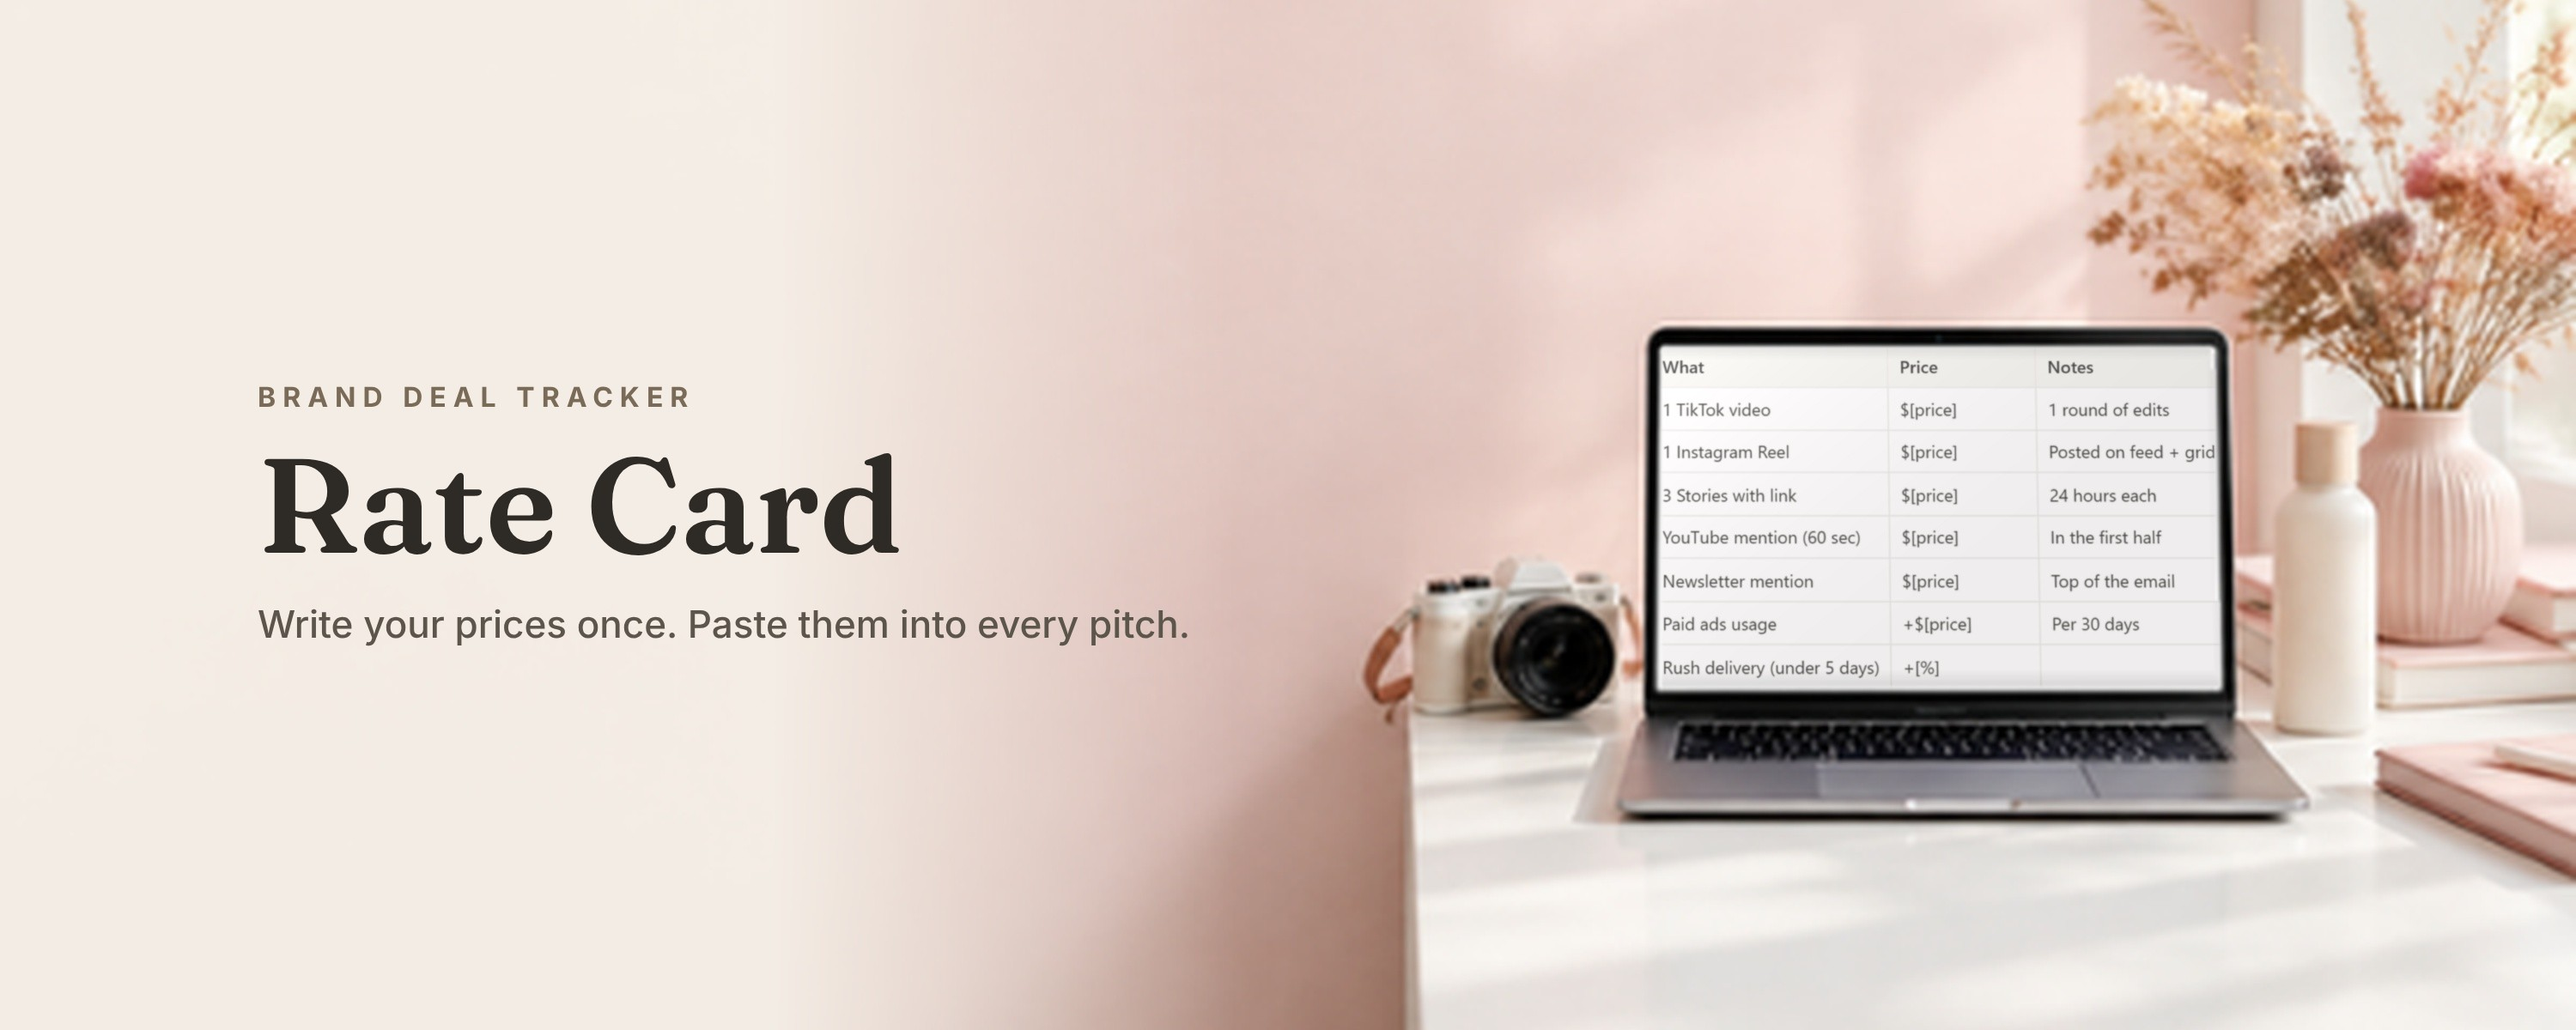
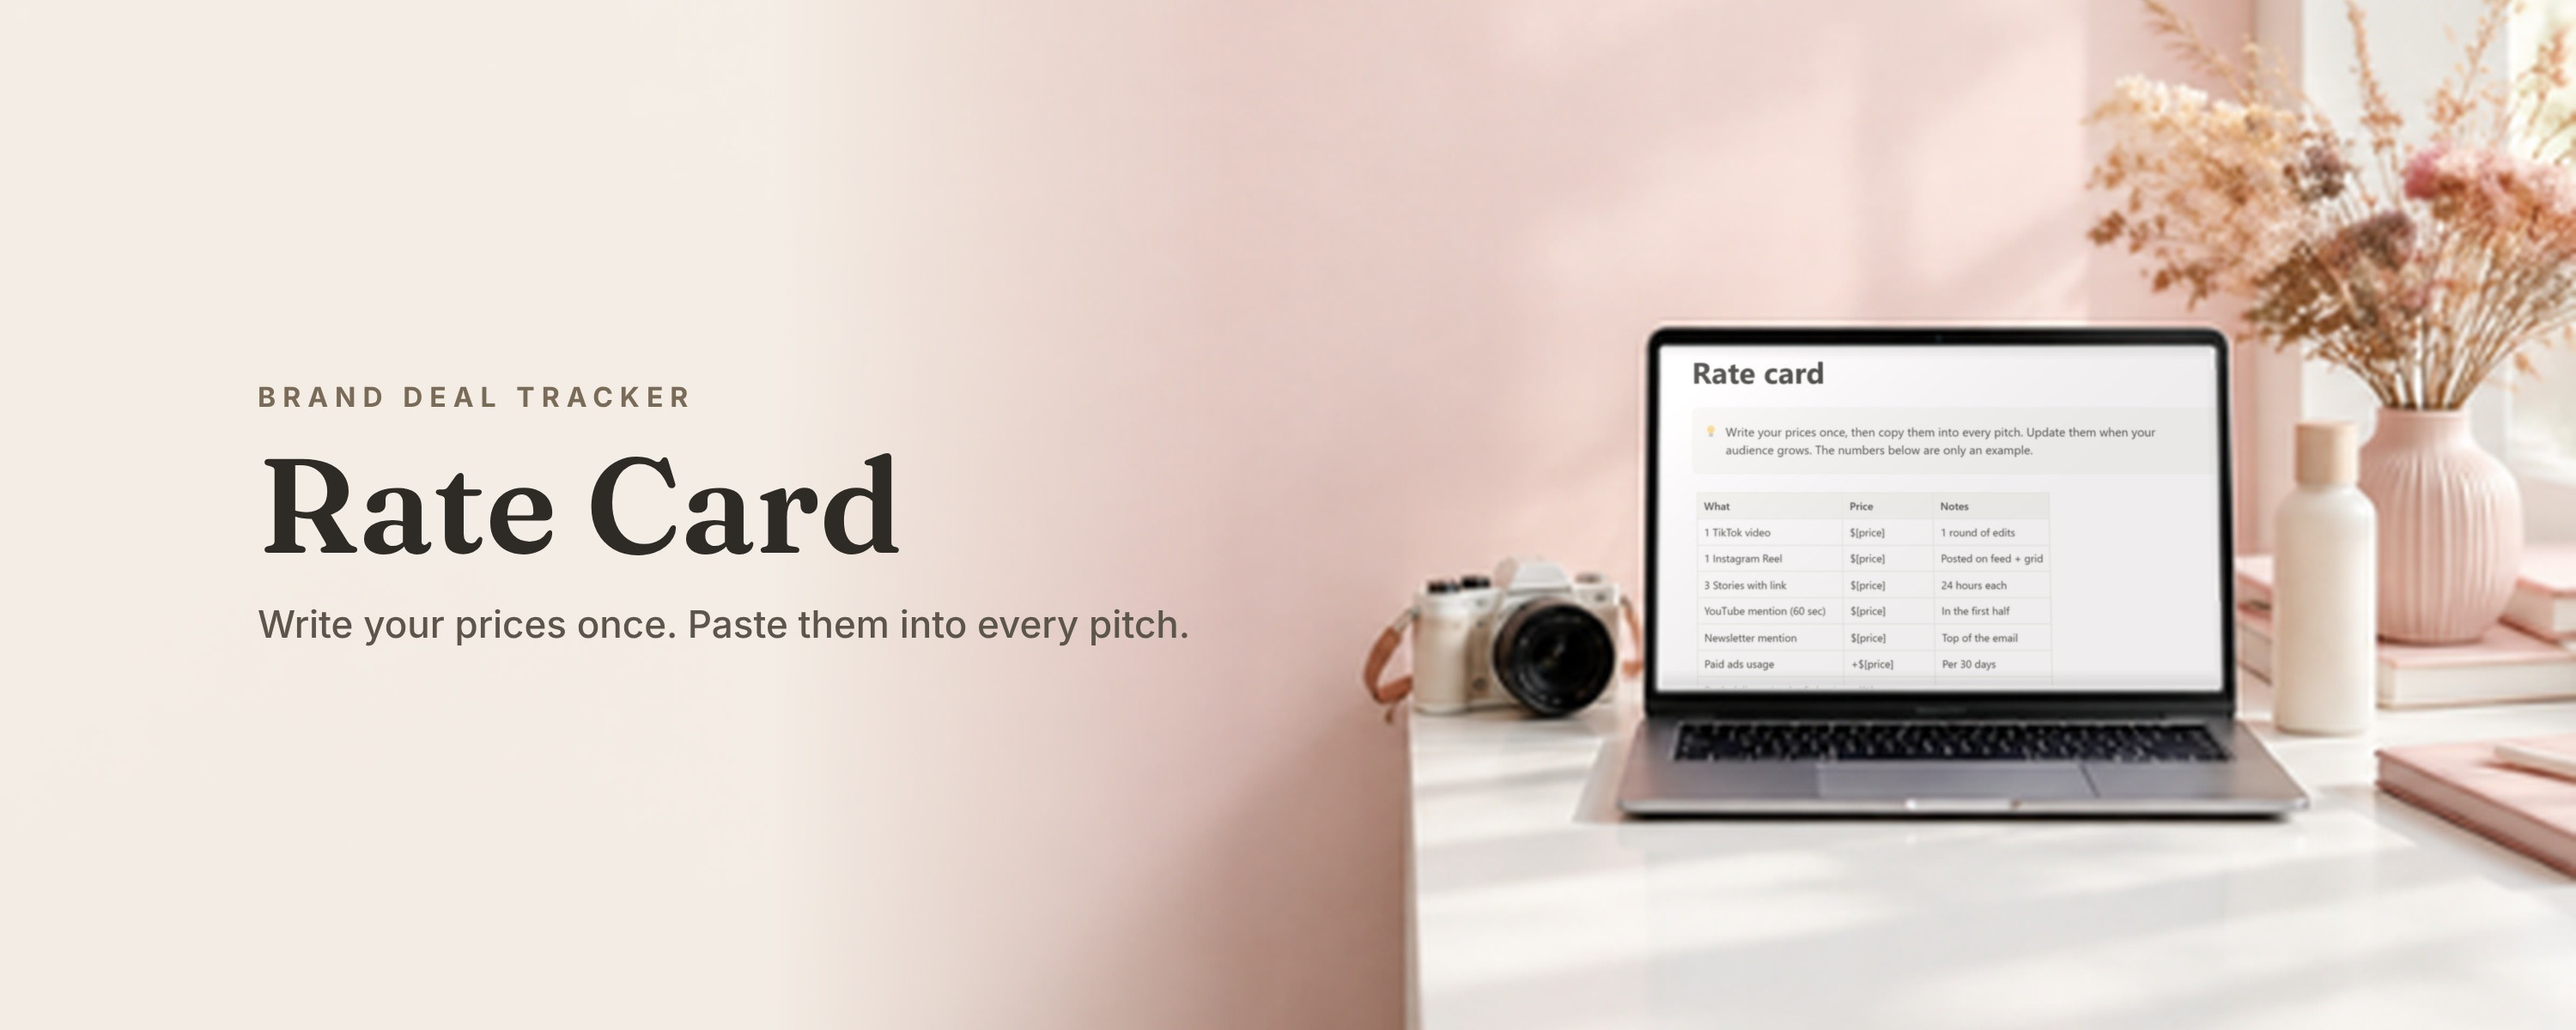
40 sub-page Notion covers (v3 style) for all 6 products
Claude-Session: https://claude.ai/code/session_01SESvdWYowsCKTnCuHXDcbL

Changed region(s): [[0.651, 0.3392, 0.868, 0.6783], [0.775, 0.3392, 0.806, 0.37]]

diff --git a/generator/v3/build_covers.py b/generator/v3/build_covers.py
@@ -29,14 +29,77 @@ PROD = {
 
 # cover id -> (product, title, subtitle, screens [one per blank screen in the scene, left to right])
 B.CROPS.update({
-    'cv-fco-paid': ('fco-money-flow', (548, 250, 935, 950)),
-    'cv-ccs-cal':  ('ccs-calendar', (145, 330, 1855, 1250)),
+    'cv-fco-paid':   ('fco-money-flow', (548, 250, 935, 950)),
+    'cv-fco-menu':   ('fco-home-menu', (147, 587, 533, 1067)),
+    'cv-fco-proj':   ('fco-projects-invoices', (145, 250, 800, 1250)),
+    'cv-fco-week':   ('fco-money-flow', (145, 250, 700, 1250)),
+    'cv-fco-review': ('fco-home-menu', (640, 540, 1300, 1250)),
+    'cv-ccs-cal':    ('ccs-calendar', (145, 330, 1855, 1250)),
+    'cv-ccs-home':   ('ccs-home-full', (78, 350, 930, 900)),
+    'cv-ccs-deals':  ('ccs-calendar-deals', (163, 780, 1300, 1250)),
+    'cv-ccs-top':    ('ccs-top-posts', (163, 380, 1500, 1200)),
+    'cv-fit-inv':    ('fit-chase-owes', (145, 190, 1010, 1250)),
+    'cv-fit-cli':    ('fit-chase-owes', (145, 560, 1010, 1250)),
+    'cv-fit-mail':   ('fit-reminder-emails', (380, 330, 1300, 1250)),
+    'cv-prop-top':   ('prop-followup-pipeline', (145, 150, 1700, 1150)),
+    'cv-prop-pipe':  ('prop-pipeline', (145, 150, 1900, 1100)),
+    'cv-prop-table': ('prop-proposals-table', (145, 150, 1700, 1100)),
+    'cv-deal-now':   ('deal-do-now-board', (145, 150, 1700, 1100)),
+    'cv-deal-board': ('deal-do-now-board', (145, 800, 1700, 1250)),
+    'cv-deal-owe':   ('deal-posts-owe', (145, 250, 1700, 1250)),
+    'cv-deal-rate':  ('deal-rate-card', (420, 150, 1500, 1100)),
 })
+PH_CCS = 'ph-ccs-pipeline-posted.jpg'
+PH_W1, PH_W2 = 'ph-wcp-pipeline.jpg', 'ph-wcp-goals-next7.jpg'
 
+# cover id -> (product, title, subtitle, screens [one per blank screen in the scene, left to right])
 COVERS = {
-    'fco-invoices': ('fco', 'Invoices', 'Draft, sent, paid. Late ones count the days.', ['cv-fco-paid']),
-    'ccs-content':  ('ccs', 'Content', 'Every post from idea to posted, on one calendar.', ['cv-ccs-cal', 'ph-ccs-pipeline-posted.jpg']),
-    'deal-rate':    ('deal', 'Rate Card', 'Write your prices once. Paste them into every pitch.', ['deal-rate']),
+    # Freelancer Client OS (phone)
+    'fco-clients':    ('fco', 'Clients', 'Every client, where they came from and when to follow up.', ['cv-fco-menu']),
+    'fco-proposals':  ('fco', 'Proposals', 'Value, win chance and expiry date on every quote.', ['cv-fco-review']),
+    'fco-projects':   ('fco', 'Projects', 'Deadline, progress and health on every project.', ['cv-fco-proj']),
+    'fco-tasks':      ('fco', 'Tasks', 'See what is overdue and what is due this week.', ['cv-fco-week']),
+    'fco-invoices':   ('fco', 'Invoices', 'Draft, sent, paid. Late ones count the days.', ['cv-fco-paid']),
+    'fco-expenses':   ('fco', 'Expenses', 'Linked to projects, so you see your real profit.', ['cv-fco-proj']),
+    'fco-emails':     ('fco', 'Email Scripts', '8 client emails, ready to copy and send.', ['cv-fco-menu']),
+    'fco-onboarding': ('fco', 'Client Onboarding', 'A calm checklist for every new client.', ['cv-fco-review']),
+    # Freelance Invoice Tracker (tablet)
+    'fit-invoices':   ('fit', 'Invoices', 'Every invoice, how late it is and the next step.', ['cv-fit-inv']),
+    'fit-clients':    ('fit', 'Clients', 'What each client owes you, and if they pay on time.', ['cv-fit-cli']),
+    'fit-emails':     ('fit', 'Reminder Emails', 'Friendly, second and final reminders, ready to send.', ['cv-fit-mail']),
+    'fit-kit':        ('fit', 'Get Paid Faster Kit', 'Simple habits so clients pay on time.', ['cv-fit-inv']),
+    # Weekly Content Planner (two phones)
+    'wcp-content':    ('wcp', 'Content', 'Every idea from Idea to Posted.', [PH_W1, PH_W2]),
+    'wcp-channels':   ('wcp', 'Channels', 'A weekly goal for every platform.', [PH_W2, PH_W1]),
+    'wcp-hooks':      ('wcp', 'Hook Starters', 'Write the first line first.', [PH_W1, PH_W2]),
+    'wcp-ideas':      ('wcp', '30 Content Ideas', 'Plus a map to repurpose every post.', [PH_W2, PH_W1]),
+    # Content Creator Studio (laptop + phone)
+    'ccs-content':    ('ccs', 'Content', 'Every post from idea to posted, on one calendar.', ['cv-ccs-cal', PH_CCS]),
+    'ccs-pillars':    ('ccs', 'Content Pillars', 'See which topic brings the most reach.', ['cv-ccs-top', PH_CCS]),
+    'ccs-channels':   ('ccs', 'Channels', 'Every platform with its own weekly goal.', ['cv-ccs-home', PH_CCS]),
+    'ccs-deals':      ('ccs', 'Brand Deals', 'From pitch to paid, with the posts you still owe.', ['cv-ccs-deals', PH_CCS]),
+    'ccs-scripts':    ('ccs', 'Brand Deal Scripts', 'Emails for pitching, following up and getting paid.', ['cv-ccs-deals', PH_CCS]),
+    'ccs-hooks':      ('ccs', 'Hook Library', 'Strong first lines for every type of post.', ['cv-ccs-home', PH_CCS]),
+    'ccs-review':     ('ccs', 'Weekly Review', 'What worked this week, and what to post next.', ['cv-ccs-top', PH_CCS]),
+    'ccs-ideas':      ('ccs', '30 Content Ideas', 'Plus a map to repurpose every post.', ['cv-ccs-cal', PH_CCS]),
+    # Proposal Tracker (laptop)
+    'prop-start':     ('prop', 'Start here', 'Set it up in a few minutes.', ['cv-prop-top']),
+    'prop-pipeline':  ('prop', 'Pipeline', 'Draft, sent, negotiating, won or lost.', ['cv-prop-pipe']),
+    'prop-clients':   ('prop', 'Clients', 'Open value, won value and win rate per client.', ['cv-prop-table']),
+    'prop-proposals': ('prop', 'Proposals', 'Every quote with its next step.', ['cv-prop-table']),
+    'prop-emails':    ('prop', 'Follow-up Emails', 'Ready messages for every follow-up.', ['cv-prop-top']),
+    'prop-guide':     ('prop', 'Proposal Writing Guide', 'Write quotes that clients say yes to.', ['cv-prop-table']),
+    'prop-review':    ('prop', 'Weekly Review', 'Five minutes to keep every quote moving.', ['cv-prop-pipe']),
+    'prop-form':      ('prop', 'Client Inquiry Form', 'New leads land in your tracker.', ['cv-prop-top']),
+    # Brand Deal Tracker (laptop)
+    'deal-start':     ('deal', 'Start here', 'Set it up in a few minutes.', ['cv-deal-now']),
+    'deal-deals':     ('deal', 'Deals', 'Pitched, talking, signed, delivered, paid.', ['cv-deal-board']),
+    'deal-owe':       ('deal', 'Posts you owe', 'Every deliverable with its due date.', ['cv-deal-owe']),
+    'deal-brands':    ('deal', 'Brands', 'What each brand paid you, and what is pending.', ['cv-deal-now']),
+    'deal-emails':    ('deal', 'Brand Email Scripts', 'Pitch, follow up and get paid.', ['cv-deal-now']),
+    'deal-rate':      ('deal', 'Rate Card', 'Write your prices once. Paste them into every pitch.', ['cv-deal-rate']),
+    'deal-media':     ('deal', 'Media Kit', 'Your numbers and audience on one page.', ['cv-deal-rate']),
+    'deal-review':    ('deal', 'Weekly Review', 'Five minutes to keep every deal moving.', ['cv-deal-board']),
 }
 
 
@@ -98,7 +161,7 @@ def warp_bg(prod, screens):
         cx = sum(a for a, _ in qq) / 4; cy = sum(b for _, b in qq) / 4; cy_all.append(cy)
         qq = [(cx + (x - cx) * 1.07, cy + (y - cy) * 1.05) for x, y in qq]
         c = Image.open(B.src(s)).convert('RGB')
-        is_phone = mk.sum() and (np.ptp(np.nonzero(mk)[1]) < np.ptp(np.nonzero(mk)[0]))
+        is_phone = mk.sum() and (np.ptp(np.nonzero(mk)[0]) > 1.6 * np.ptp(np.nonzero(mk)[1]))
         if is_phone and not s.startswith('ph-'):
             c = mobile(c)
         sw = ((qq[1][0] - qq[0][0]) ** 2 + (qq[1][1] - qq[0][1]) ** 2) ** .5
